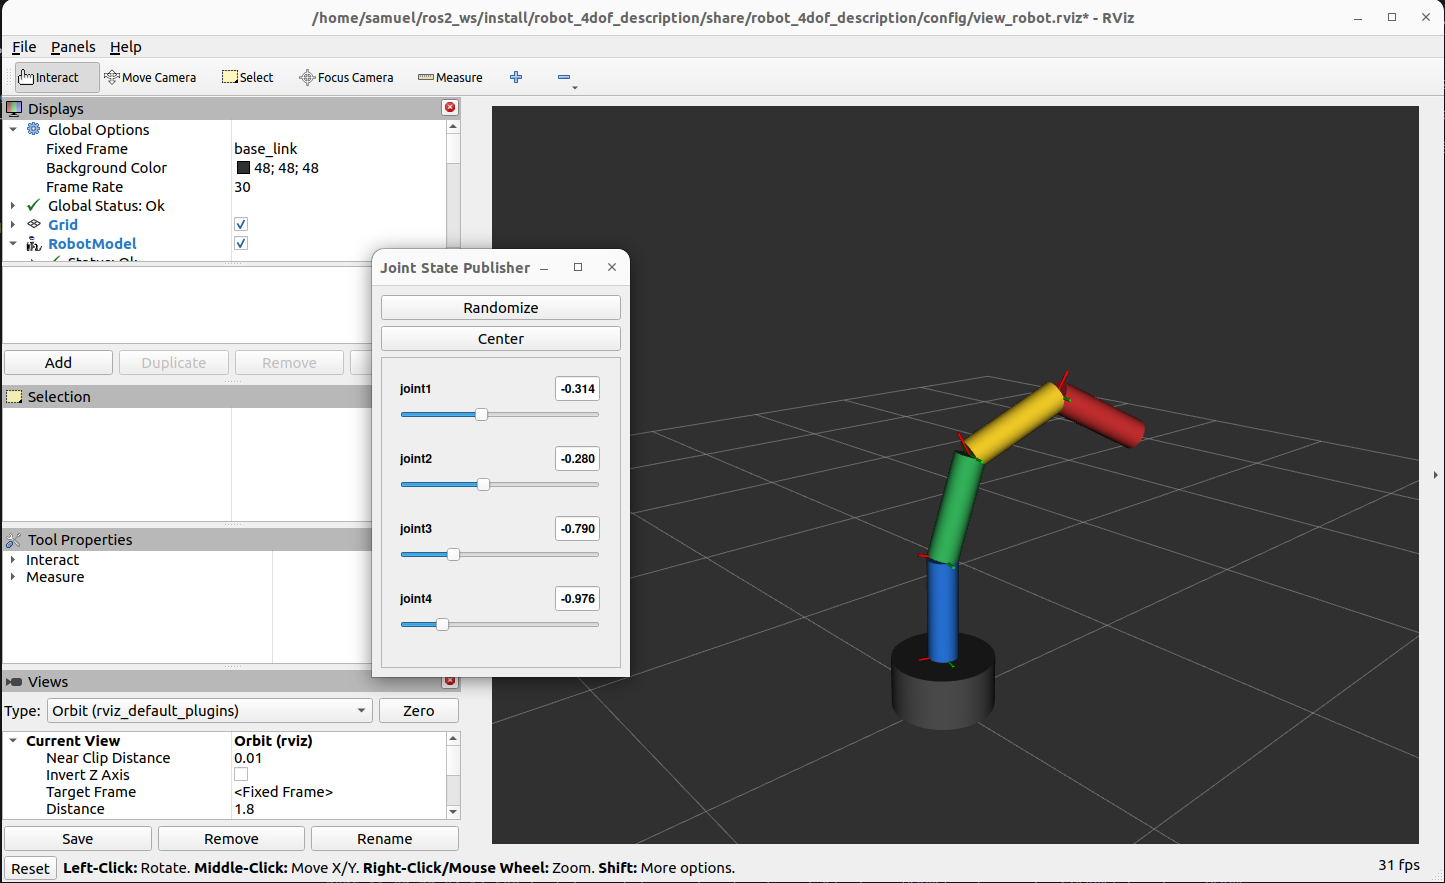
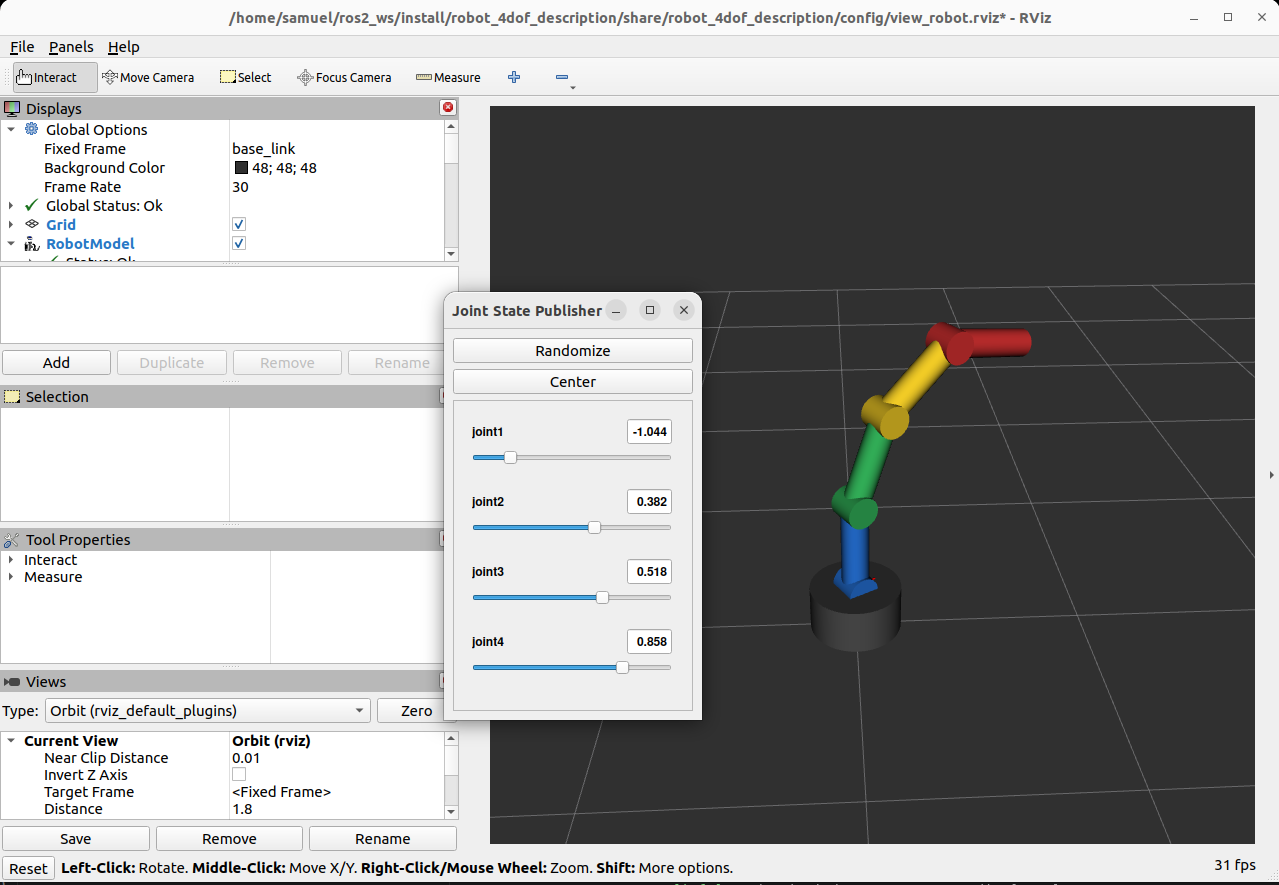
week9_feat: URDF 관절 연결부 개선 및 결과 이미지 교체

diff --git a/week9/README.md b/week9/README.md
@@ -4,36 +4,46 @@
 
 ## 1. 로봇 설계 (0.5쪽)
 
-- **설계 목표**: ROS 2 Humble 환경에서 4개의 독립적인 회전 관절(`joint1`~`joint4`)을 가진 4자유도(4-DOF) 직렬형 로봇 팔을 URDF/Xacro로 모델링하고, `joint_state_publisher_gui`와 `RViz2`를 연동하여 관절 제어 및 시각화를 구현함.
+- **설계 목표**: ROS 2 Humble 환경에서 4개의 회전 관절(`joint1`~`joint4`)을 가진 4자유도(4-DOF) 직렬형 로봇 팔을 URDF/Xacro로 모델링하고, `joint_state_publisher_gui`와 `RViz2`를 연동하여 실시간 관절 제어 및 시각화를 구현함.
 - **구조 특징**:
-  - 바닥에 고정되는 `base_link` 위에 4개의 원통형 링크(`link1`~`link4`)를 직렬로 배치함.
-  - 3차원 공간 운동이 가능하도록 첫 번째 관절(`joint1`)은 수평 회전(Z축, Yaw), 나머지 관절(`joint2`~`joint4`)은 상하 굴절(Y축, Pitch)로 설계함.
-  - 모든 관절의 회전 범위는 요구사항에 맞춰 `-90° ~ +90°` (`-1.5708 ~ +1.5708 rad`)로 제한함.
+  - 바닥에 고정되는 `base_link` 위에 4개의 원통형 링크(`link1`~`link4`)를 직렬로 배치하고, 각 관절 연결부(`0 0 0`)에는 가로 방향 원통형 구동부(모터 하우징) 형상을 추가하여 회전 시에도 링크가 끊어지지 않고 자연스럽게 이어지도록 설계함.
+  - 3차원 공간 운동이 가능하도록 첫 번째 관절(`joint1`)은 수평 회전(Z축, Yaw), 나머지 관절(`joint2`~`joint4`)은 상하 굴절(Y축, Pitch)로 구성함.
+  - 모든 관절의 회전 범위는 `-90° ~ +90°` (`-1.5708 ~ +1.5708 rad`)로 제한함.
 
 ---
 
 ## 2. URDF 코드 설명 (1쪽)
 
-### 2.1 주요 태그 설명
+### 2.1 주요 태그 설명 (강의자료 25~26p 연계)
 - **`<link>`**: 로봇을 구성하는 강체(마디)를 정의하며, 하위 태그로 외형(`visual`), 충돌(`collision`), 물리 특성(`inertial`)을 포함함.
-- **`<joint>`**: 부모 링크(`parent`)와 자식 링크(`child`) 사이의 연결 관계, 회전축(`axis`), 회전 제한(`limit`)을 정의함.
-- **`<visual>`**: RViz2 화면에 표시되는 링크의 기하학적 형상(`<cylinder>`), 중심 위치(`<origin>`), 색상(`<material>`)을 지정함.
-- **`<collision>`**: 물리 엔진이나 경로 계획 시 충돌 계산에 사용되는 영역을 정의함 (본 모델에서는 `visual`과 동일한 원통 형상 적용).
-- **`<inertial>`**: 링크의 질량(`<mass>`)과 관성 모멘트 행렬(`<inertia ixx ... izz/>`) 등 동역학 시뮬레이션에 필요한 물리 속성을 정의함.
+- **`<joint>`**: 부모 링크(`parent`)와 자식 링크(`child`) 사이의 연결 위치(`origin`), 회전축(`axis`), 운동 한계(`limit`: 도달 범위 `lower/upper`, 최대 토크 `effort`, 최대 속도 `velocity`)를 정의함.
+- **`<visual>`**: RViz2 화면에 표시되는 링크의 기하학적 형상(`<cylinder>`), 위치·자세(`<origin>`), 색상(`<material>`)을 지정함.
+- **`<collision>`**: 경로 계획이나 시뮬레이션 시 충돌 계산에 사용되는 영역을 정의함.
+- **`<inertial>`**: 링크의 질량(`<mass>`)과 관성 모멘트(`<inertia>`)를 정의하며, 동역학 시뮬레이션에서 모터 과부하나 진동을 방지하기 위한 핵심 물리 파라미터임.
 
 ### 2.2 좌표계 설정 방법
-- **링크 중심 오프셋 (`<visual>`, `<collision>`, `<inertial>`의 `<origin>`)**:
-  - URDF의 `<cylinder>`는 기본적으로 원통의 정중앙이 로컬 원점(`0 0 0`)에 생성됨.
-  - 관절 회전 중심에 원통의 하단 끝점이 오도록, 원통 중심을 길이의 절반인 `xyz="0 0 ${length / 2.0}"` (`base_link`는 `0.05m`, `link1~4`는 `0.1m`)만큼 Z축으로 이동시킴.
-- **관절 위치 설정 (`<joint>`의 `<origin>`)**:
-  - 다음 관절이 이전 링크의 상단 끝점에 연결되도록, 부모 링크의 길이만큼 이동한 `xyz="0 0 ${base_length}"` (`0.1m`) 및 `xyz="0 0 ${link_length}"` (`0.2m`)로 설정함.
+- **링크 본체 중심 이동 (`xyz="0 0 ${length / 2.0}"`)**:
+  - URDF의 `<cylinder>`는 원통의 정중앙이 원점(`0 0 0`)에 생성되므로, 관절 회전 중심에 원통 하단이 오도록 중심을 길이의 절반(`0.1m`)만큼 Z축 위로 이동시킴.
+- **관절 구동부 회전 배치 (`xyz="0 0 0" rpy="1.5708 0 0"`)**:
+  - 각 링크의 시작점(`0 0 0`)에 작은 원통을 배치하고 Roll(X축) 방향으로 `90°`(`1.5708 rad`) 회전시켜, Y축 회전 관절과 축 방향이 일치하는 모터 구동부 형상을 표현함.
+- **다음 관절 연결 위치 (`<joint>`의 `origin xyz="0 0 ${link_length}"`)**:
+  - 다음 관절이 이전 링크의 상단 끝점에 연결되도록 부모 링크 길이(`0.2m`)만큼 Z축으로 이동시켜 설정함.
 
 ### 2.3 핵심 코드 발췌 (`urdf/robot_4dof.urdf.xacro`)
 
 ```xml
-<!-- 원통형 링크 생성 매크로 (link, visual, collision, inertial) -->
+<!-- 원통형 링크 및 관절 구동부 생성 -->
 <xacro:macro name="cylinder_link" params="name length radius mass color">
   <link name="${name}">
+    <!-- 관절 회전축(0 0 0) 원통형 구동부 생성 -->
+    <visual>
+      <origin xyz="0 0 0" rpy="1.5708 0 0"/>
+      <geometry>
+        <cylinder radius="0.035" length="0.07"/>
+      </geometry>
+      <material name="${color}"/>
+    </visual>
+    <!-- 링크 원통 본체 -->
     <visual>
       <origin xyz="0 0 ${length / 2.0}" rpy="0 0 0"/>
       <geometry>
@@ -55,12 +65,12 @@
   </link>
 </xacro:macro>
 
-<!-- 회전 관절 정의 예시 (joint1, joint2) -->
-<joint name="joint1" type="revolute">
-  <parent link="base_link"/>
-  <child link="link1"/>
-  <origin xyz="0 0 ${base_length}" rpy="0 0 0"/>
-  <axis xyz="0 0 1"/>
+<!-- 회전 관절 정의 예시 -->
+<joint name="joint2" type="revolute">
+  <parent link="link1"/>
+  <child link="link2"/>
+  <origin xyz="0 0 ${link_length}" rpy="0 0 0"/>
+  <axis xyz="0 1 0"/>
   <limit lower="-${joint_limit}" upper="${joint_limit}" effort="10.0" velocity="1.0"/>
 </joint>
 ```
@@ -83,31 +93,31 @@ ros2 launch robot_4dof_description display_robot.launch.py
      │
    joint1 (Revolute, Z축 회전, -90° ~ +90°)
      ▼
-  [link1] (Blue, 0.2m)
+  [link1] (Blue, 0.2m + 관절 구동부)
      │
    joint2 (Revolute, Y축 회전, -90° ~ +90°)
      ▼
-  [link2] (Green, 0.2m)
+  [link2] (Green, 0.2m + 관절 구동부)
      │
    joint3 (Revolute, Y축 회전, -90° ~ +90°)
      ▼
-  [link3] (Yellow, 0.2m)
+  [link3] (Yellow, 0.2m + 관절 구동부)
      │
    joint4 (Revolute, Y축 회전, -90° ~ +90°)
      ▼
-  [link4] (Red, 0.2m)
+  [link4] (Red, 0.2m + 관절 구동부)
 ```
 
 ### 3.3 각 링크 및 관절 사양 표
 
 **[링크 사양]**
-| 링크 이름 | 형상 | 길이 (m) | 반지름 (m) | 중심 위치 (`origin xyz`) | 질량 (kg) | 색상 |
+| 링크 이름 | 본체 형상 | 길이 (m) | 반지름 (m) | 본체 중심 (`origin xyz`) | 질량 (kg) | 색상 |
 | :---: | :---: | :---: | :---: | :---: | :---: | :---: |
 | `base_link` | Cylinder | 0.1 | 0.10 | `0 0 0.05` | 1.0 | Grey |
-| `link1` | Cylinder | 0.2 | 0.03 | `0 0 0.10` | 0.5 | Blue |
-| `link2` | Cylinder | 0.2 | 0.03 | `0 0 0.10` | 0.5 | Green |
-| `link3` | Cylinder | 0.2 | 0.03 | `0 0 0.10` | 0.5 | Yellow |
-| `link4` | Cylinder | 0.2 | 0.03 | `0 0 0.10` | 0.5 | Red |
+| `link1` | Cylinder (+구동부) | 0.2 | 0.03 | `0 0 0.10` | 0.5 | Blue |
+| `link2` | Cylinder (+구동부) | 0.2 | 0.03 | `0 0 0.10` | 0.5 | Green |
+| `link3` | Cylinder (+구동부) | 0.2 | 0.03 | `0 0 0.10` | 0.5 | Yellow |
+| `link4` | Cylinder (+구동부) | 0.2 | 0.03 | `0 0 0.10` | 0.5 | Red |
 
 **[관절 사양]**
 | 관절 이름 | 타입 | Parent → Child | 관절 위치 (`origin xyz`) | 회전축 (`axis`) | 회전 범위 (`rad` / `deg`) |
@@ -122,9 +132,9 @@ ros2 launch robot_4dof_description display_robot.launch.py
 ## 4. 기타
 
 ### 4.1 어려웠던 점
-- **원통 중심 좌표(`origin`)와 관절 위치 맞추기**: 처음에는 `<cylinder>`가 원점 기준으로 위아래 대칭 생성된다는 점을 간과하여 링크와 관절 위치가 겹치는 문제가 있었으나, 링크의 `<visual>` origin을 길이의 절반(`length / 2.0`)만큼 올리고 `<joint>` origin을 링크 끝점(`length`)에 두어 해결함.
-- **`joint1`의 Z축 회전 확인**: 모든 관절이 `0 rad`일 때는 로봇 팔이 수직으로 일직선이어서 원통형인 `link1`을 Z축으로 회전시켜도 외형 변화가 눈에 잘 띄지 않았음. RViz2에서 `TF` 좌표계를 켜고 `joint2`~`joint4`를 기울인 상태에서 `joint1`을 조작하여 전체 팔이 수평 회전하는 것을 확인함.
+- **원통 중심 좌표(`origin`)와 관절 벌어짐 해결**: 처음에 단순 원통만 연결했을 때는 관절을 ±90°로 꺾을 때 원통 끝단 모서리가 벌어져 떨어져 보이는 문제가 있었음. 이를 해결하기 위해 링크 본체 중심을 `length / 2.0`으로 이동시키고, 관절 원점(`0 0 0`)에 `rpy="1.5708 0 0"`으로 90° 눕힌 가로 원통형 구동부를 추가하여 회전 시에도 자연스럽게 이어지도록 개선함.
+- **다중 `<visual>` 태그 사용 시 색상 적용 문제**: 하나의 `<link>` 내부에 구동부와 본체 2개의 `<visual>` 태그를 작성했을 때, 첫 번째 `<visual>`의 `<material>` 색상(`grey`)으로 링크 전체 색상이 덮어씌워지는 RViz2 특성을 확인하고 두 `<visual>` 모두 `${color}` 변수를 참조하도록 수정하여 해결함.
 
-### 4.2 향후 개선 방향
-- **3D 메쉬 적용 및 그리퍼(Gripper) 추가**: 현재는 기본 원통 도형으로 모델링하였으나, 추후 CAD로 설계한 `.stl`/`.dae` 메쉬 파일을 적용하고 말단(`link4`) 끝에 물체를 잡는 그리퍼 관절을 추가할 수 있음.
-- **MoveIt 2 및 Gazebo 연동**: 정의해 둔 `<collision>`과 `<inertial>` 속성을 바탕으로 Gazebo 물리 시뮬레이션이나 MoveIt 2 역기구학(IK) 경로 계획을 연동하여 원하는 목표 좌표로 로봇 팔을 제어하도록 확장할 수 있음.
+### 4.2 향후 개선 방향 (강의자료 10주차 내용 연계)
+- **카메라 비전(`camera.xacro`) 및 그리퍼 장착**: 10주차 강의에서 다룬 것처럼 말단 링크(`link4`) 끝에 RGB-D 카메라(Optical Frame 적용)와 그리퍼를 추가하고, `cv_bridge` 및 OpenCV HSV 색상 검출 노드를 연동하여 특정 색상의 물체를 인식하도록 확장할 수 있음.
+- **Gazebo 시뮬레이션, `ros2_control`, MoveIt 통합**: 정의해 둔 `<collision>`, `<inertial>`, `<limit>` 파라미터를 바탕으로 Gazebo 물리 시뮬레이터와 `ros2_control` 하드웨어 인터페이스를 연결하고, MoveIt의 Motion Planning을 적용해 자율 조작(Manipulation) 시스템으로 발전시킬 수 있음.
